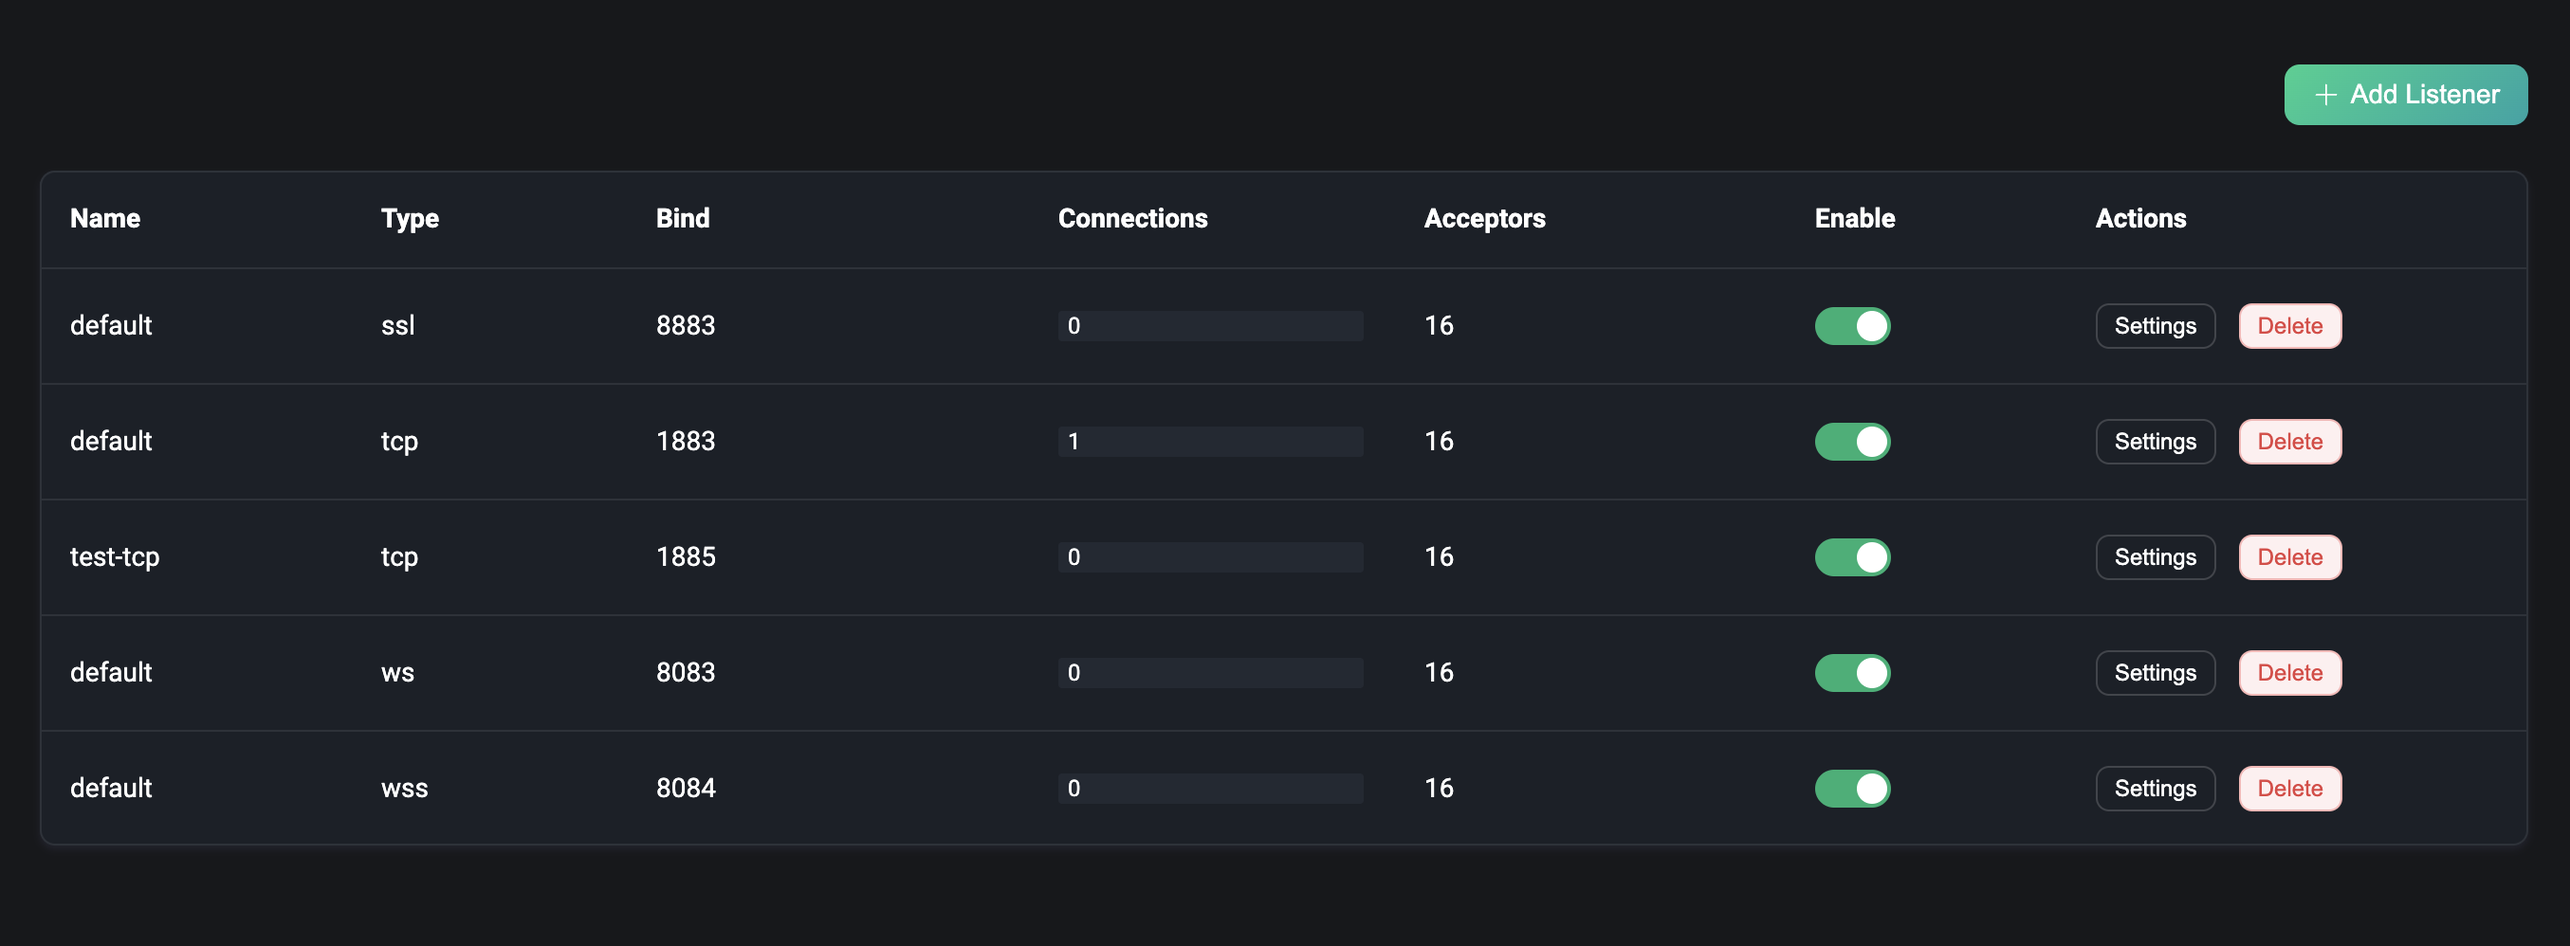
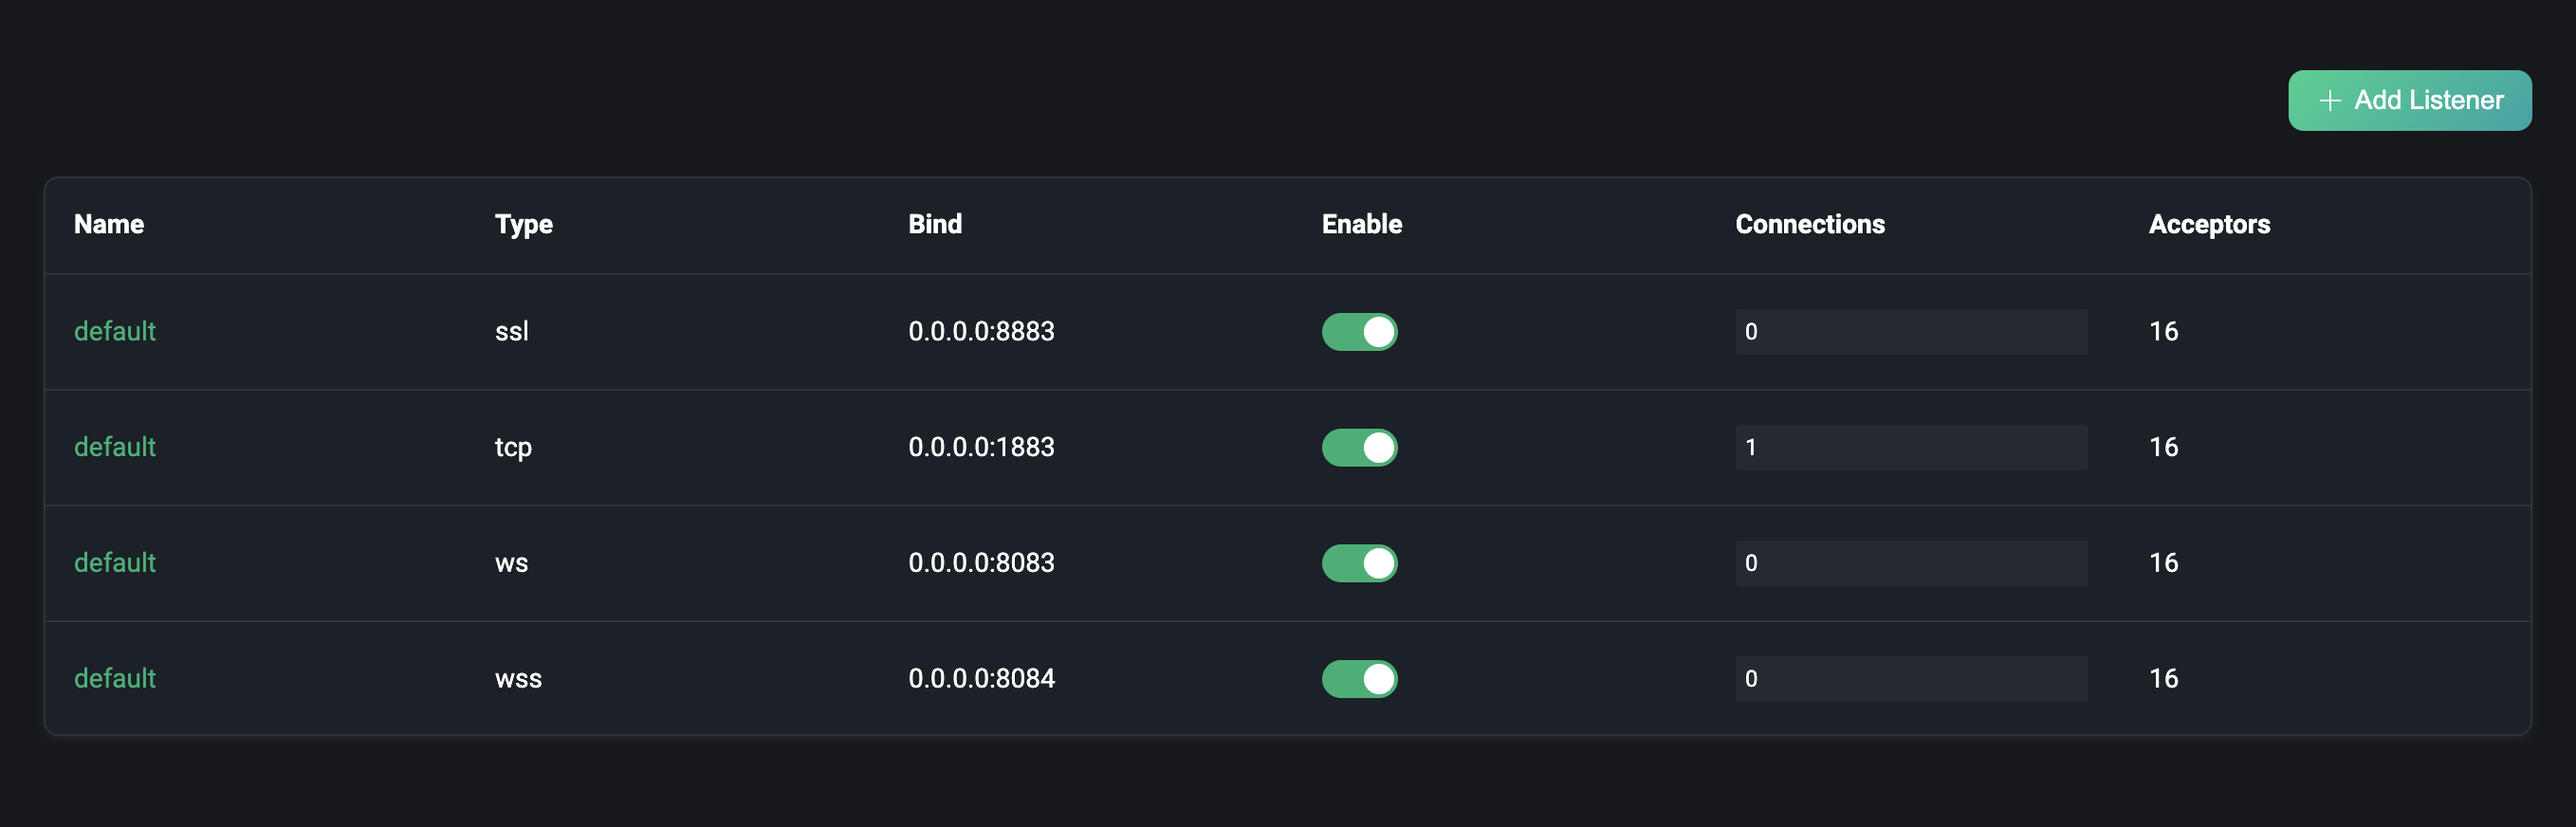
docs(dashboard): update listeners

diff --git a/en_US/dashboard/configuration.md b/en_US/dashboard/configuration.md
@@ -28,9 +28,11 @@ More about the listener configuration, please refer to [Listener Configuration](
 
 ### Manager Listener
 
-After adding a listener, you can see the listener in the list, click the `Settings` button to modify the configuration of the listener. Note: the listener name, type and bind cannot be modified again in the settings. Click the `Delete` button to delete the listener. When deleting the listener, you need to enter the name of the listener you are currently deleting to confirm the deletion operation. In the list, we can also click the enable switch to enable or disable the listener. The number of connections under each listener can also be viewed in the list.
+After adding a listener, it can be seen in the list, and the name can be clicked to enter the edit page. On this page, the listener's configuration can be modified, or the listener can be deleted. Note that the listener name, type, and bind cannot be changed in the settings.
 
 ![image](./assets/config-listener-list.png)
+
+To delete a listener, click the "Delete" button on the edit page. When deleting a listener, you need to enter the name of the listener you are currently deleting to confirm the deletion. You can also click the enable switch to enable or disable the listener in the list. The list also allows you to view the number of connections for each listener.
 
 ::: warning
 Modify and delete listeners are operations with a certain degree of risk, which need to be operated with caution. If you update or delete a listener, the client connections on that listener will be disconnected.

diff --git a/zh_CN/dashboard/configuration.md b/zh_CN/dashboard/configuration.md
@@ -28,9 +28,11 @@ EMQX 提供了热配置能力，可以在运行时动态修改配置，无需重
 
 ### 管理监听器
 
-添加完成一个监听器后，可以在列表中看到该监听器，可以点击`设置`按钮来修改该监听器的配置。注意：监听器名称、类型和监听地址不可在设置中再次修改。同样点击`删除`按钮，可以删除该监听器。当删除监听器时，需要输入目前正在删除的监听器名称，以确认删除操作。列表中我们还可以点击启用开关来启用或者禁用该监听器。列表中还可以查看每个监听器下的连接数。
+添加完成一个监听器后，可以在列表中看到该监听器，可以点击`名称`可进入到编辑页面，在该页面下可以修改该监听器的配置或删除一个监听器。需要注意的是，监听器名称、类型和监听地址不可在设置中再次修改。
 
 ![image](./assets/config-listener-list.png)
+
+点击编辑页面中的`删除`按钮，可以删除该监听器。当删除监听器时，需要输入目前正在删除的监听器名称，以确认删除操作。列表中我们还可以点击启用开关来启用或者禁用该监听器。列表中还可以查看每个监听器下的连接数。
 
 ::: warning
 修改和删除监听器是一个带有危险性的操作，需要谨慎操作。如果更新或删除了一个监听器，那么该监听器上的客户端连接将会被断开。
